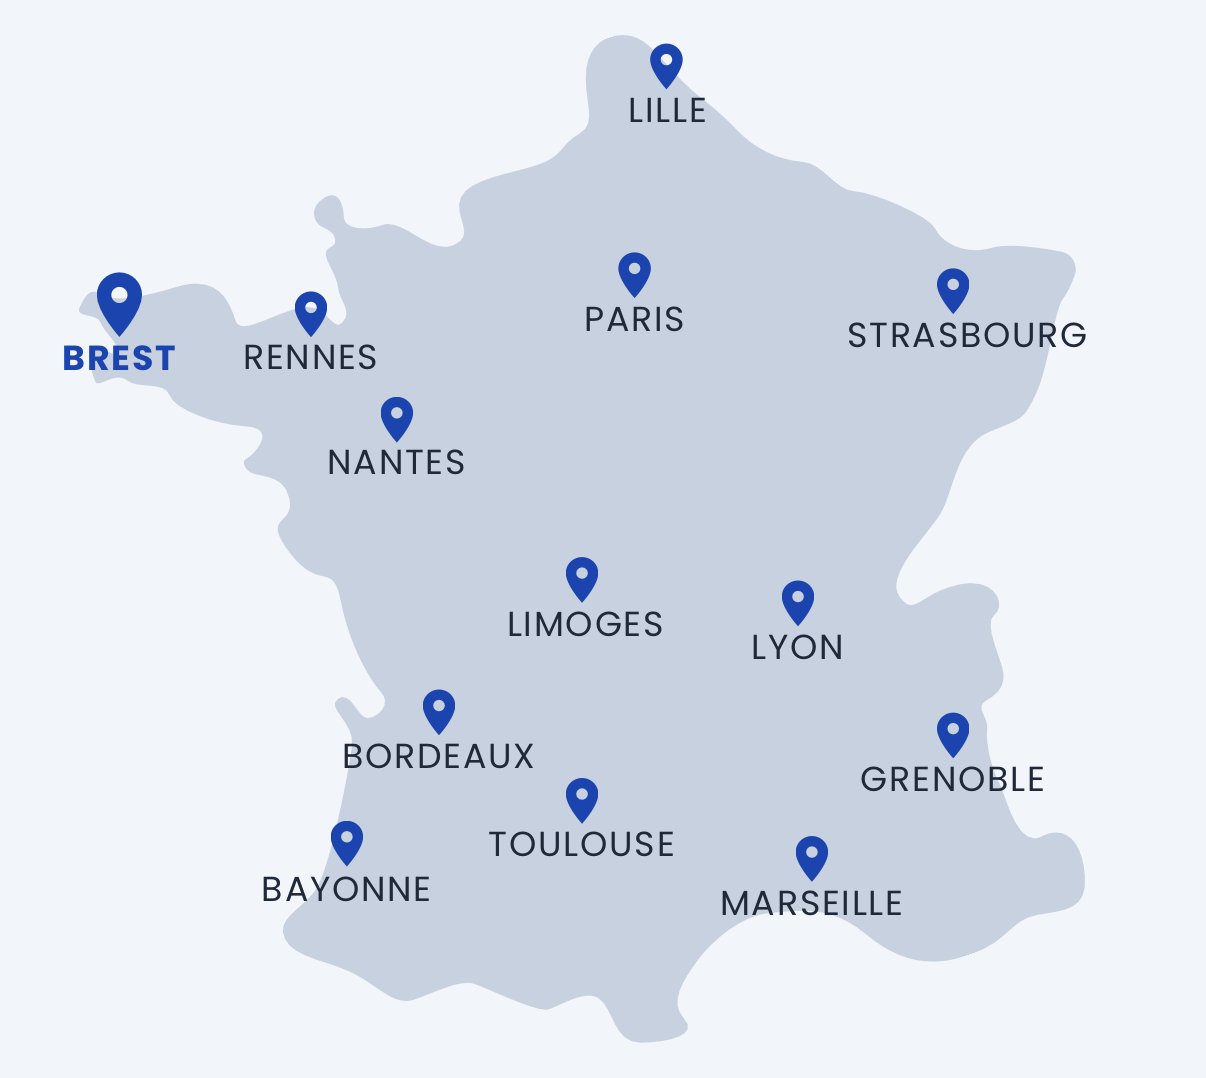
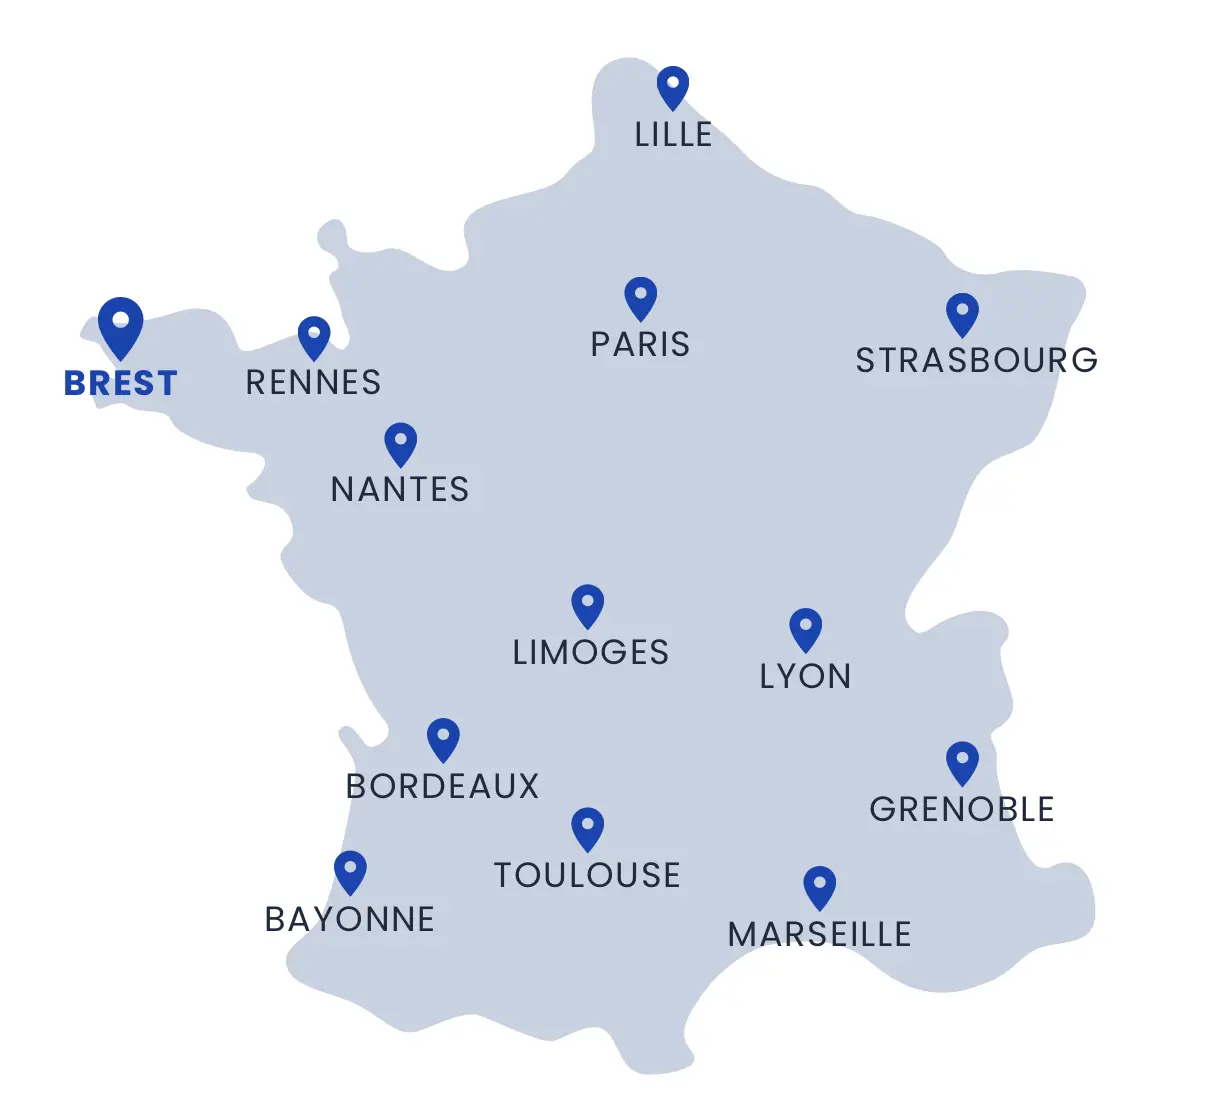
couleur secteur d'activités

diff --git a/src/components/carrieres_nomades/Location.vue b/src/components/carrieres_nomades/Location.vue
@@ -25,7 +25,7 @@
         <div class="flex flex-col justify-center w-full h-full">
           <!-- div pour titre + texte -->
           <div
-            class="flex flex-col justify-center border-b bg-slate-100 rounded-xl shadow-xl mb-4"
+            class="flex flex-col justify-center border-b bg-white rounded-xl shadow-xl mb-4"
           >
             <h4
               class="text-xl sm:text-2xl lg:text-3xl font-semibold text-secondary tracking-tight leading-tight p-3"
@@ -51,12 +51,11 @@
             </i18n-t>
           </div>
           <!-- div pour les 3 cartes -->
-          <!-- flex justify-center -->
           <div class="grid grid-cols-1 lg:grid-cols-3 gap-4">
             <div
               v-for="n in 3"
               :key="n"
-              class="bg-slate-100 items-center rounded-xl shadow-xl p-3"
+              class="bg-white items-center rounded-xl shadow-xl p-3"
             >
               <h5
                 class="text-secondary text-lg font-semibold tracking-tight leading-tight uppercase text-center"
@@ -71,7 +70,7 @@
         </div>
         <!-- div pour carte -->
         <div
-          class="relative h-full w-full rounded-xl shadow-xl overflow-hidden min-h-75 bg-slate-100"
+          class="relative h-full w-full rounded-xl shadow-xl overflow-hidden min-h-75 bg-white"
         >
           <img
             src="@/assets/carte-france.webp"
